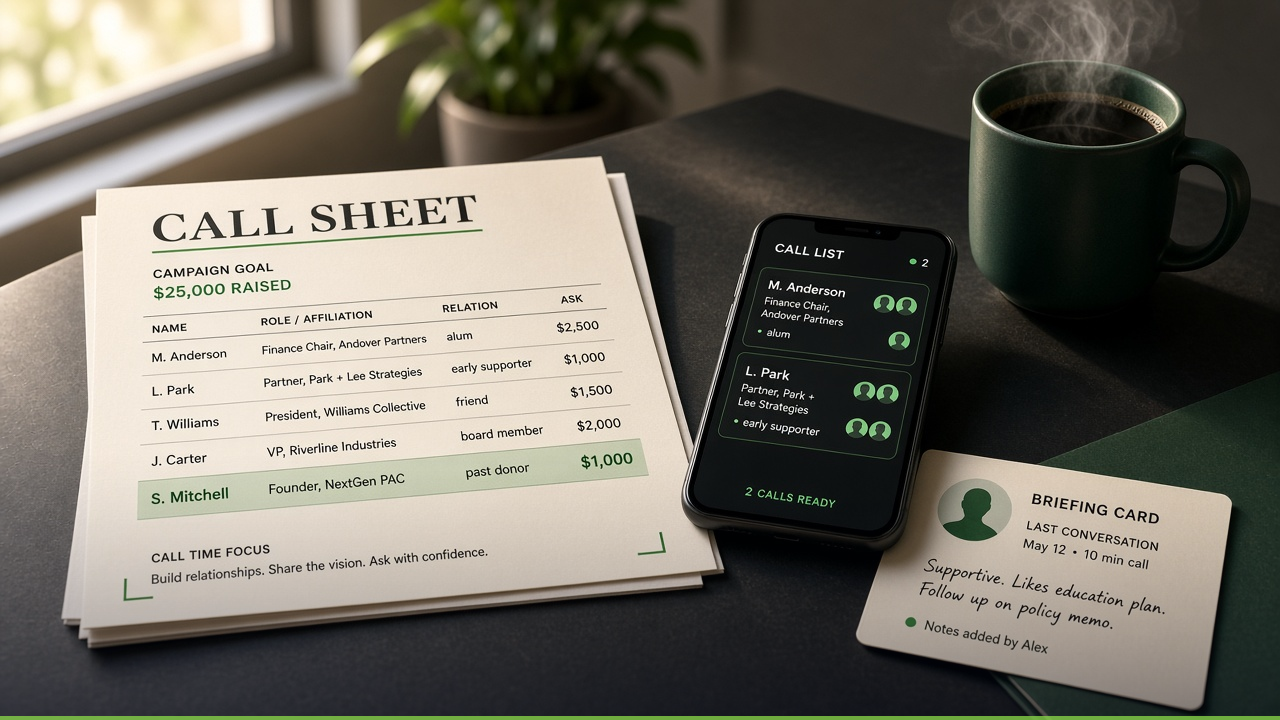
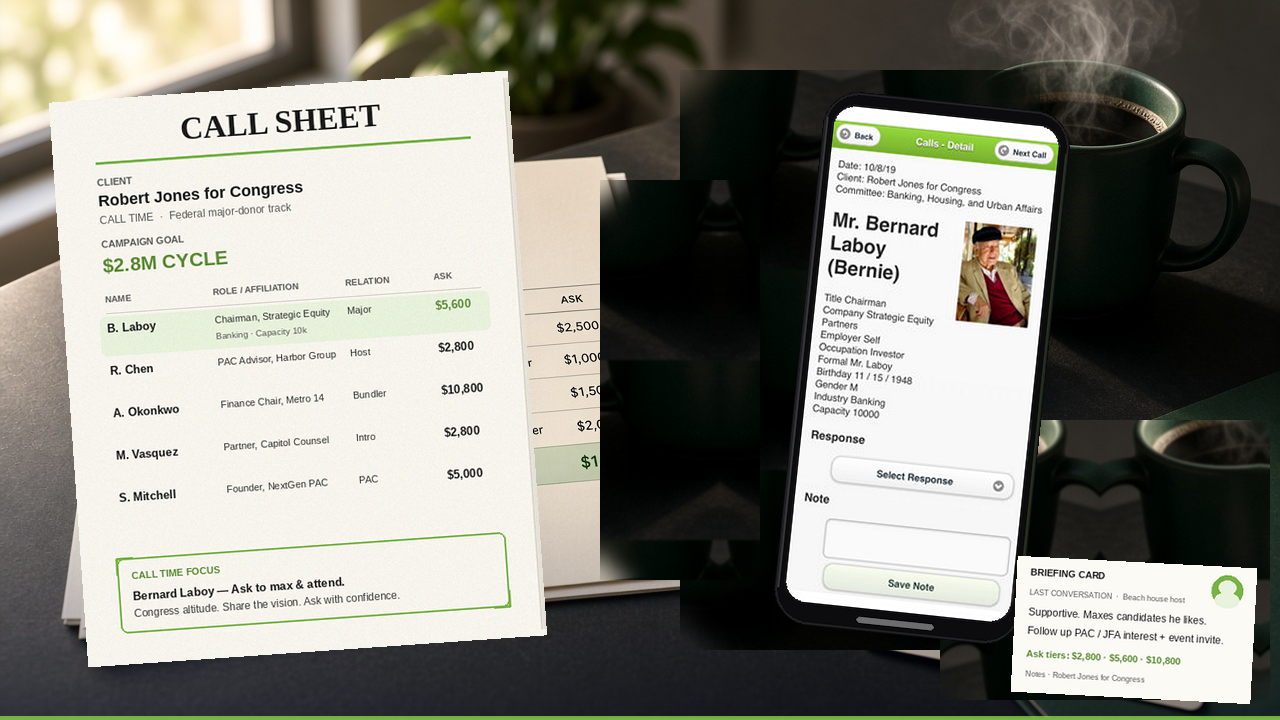
Capabilities Calls: ship Call Sheet + Online Calls composite

diff --git a/capabilities/index.html b/capabilities/index.html
@@ -6,7 +6,7 @@
 <title>Capabilities | iDONATEpro</title>
 <meta name="description" content="From a messy Scranton list to Dundies night — Contacts, Import, Email, Call Sheets, Events in one Donor book. Call Time that wins.">
 <link rel="icon" href="/favicon.ico">
-<link rel="stylesheet" href="/css/site.css?v=104">
+<link rel="stylesheet" href="/css/site.css?v=105">
 </head>
 <body>
 <header class="site-header">
@@ -160,7 +160,7 @@
   <div class="wrap capability-grid">
         <div class="cap-media">
       <figure class="cap-shot">
-        <img src="/img/capabilities/calls.png?v=2" alt="Calls & Call Time story graphic" width="1280" height="720" loading="lazy">
+        <img src="/img/capabilities/calls.png?v=6" alt="Calls & Call Time story graphic" width="1280" height="720" loading="lazy">
       </figure>
     </div>
 <div class="capability-copy">

diff --git a/icons/index.html b/icons/index.html
@@ -7,7 +7,7 @@
 <meta name="robots" content="noindex, nofollow">
 <meta name="description" content="Locked iDp icon set, five finishes.">
 <link rel="icon" href="/favicon.ico">
-<link rel="stylesheet" href="/css/site.css?v=104">
+<link rel="stylesheet" href="/css/site.css?v=105">
 <style>
 section.compare-board { padding: 3.25rem 0 5rem; background: var(--bg); }
 section.compare-board .wrap-board { width: min(72rem, calc(100% - 3rem)); margin-inline: auto; }

diff --git a/who-its-for/index.html b/who-its-for/index.html
@@ -6,7 +6,7 @@
 <title>Who It's For | iDONATEpro</title>
 <meta name="description" content="iDONATEpro is built for Political Fundraisers, Campaigns & Committees, and Regional Parties & 501(c) Organizations. See who you become with a Donor book that travels with you.">
 <link rel="icon" href="/favicon.ico">
-<link rel="stylesheet" href="/css/site.css?v=104">
+<link rel="stylesheet" href="/css/site.css?v=105">
 </head>
 <body>
 <header class="site-header">

diff --git a/index.html b/index.html
@@ -6,7 +6,7 @@
 <title>iDONATEpro | Political Fundraising CRM Software</title>
 <meta name="description" content="CRM software for Political Fundraisers, campaigns, committees, Regional Parties, and 501(c) Organizations. Book a free demo or start a 14-day trial.">
 <link rel="icon" href="/favicon.ico">
-<link rel="stylesheet" href="/css/site.css?v=104">
+<link rel="stylesheet" href="/css/site.css?v=105">
 </head>
 <body>
 <header class="site-header">

diff --git a/terms-and-conditions/index.html b/terms-and-conditions/index.html
@@ -6,7 +6,7 @@
 <title>Terms & Conditions | iDONATEpro</title>
 <meta name="description" content="CRM software for political fundraisers, campaigns, committees, regional parties, and 501(c) organizations. Book a free demo or start a 14-day trial.">
 <link rel="icon" href="/favicon.ico">
-<link rel="stylesheet" href="/css/site.css?v=104">
+<link rel="stylesheet" href="/css/site.css?v=105">
 </head>
 <body>
 <header class="site-header">

diff --git a/referral-program/index.html b/referral-program/index.html
@@ -6,7 +6,7 @@
 <title>Referral Program | iDONATEpro</title>
 <meta name="description" content="CRM software for Political Fundraisers, campaigns, committees, Regional Parties, and 501(c) Organizations. Book a free demo or start a 14-day trial.">
 <link rel="icon" href="/favicon.ico">
-<link rel="stylesheet" href="/css/site.css?v=104">
+<link rel="stylesheet" href="/css/site.css?v=105">
 </head>
 <body>
 <header class="site-header">

diff --git a/privacy-policy/index.html b/privacy-policy/index.html
@@ -6,7 +6,7 @@
 <title>Privacy Policy | iDONATEpro</title>
 <meta name="description" content="CRM software for political fundraisers, campaigns, committees, regional parties, and 501(c) organizations. Book a free demo or start a 14-day trial.">
 <link rel="icon" href="/favicon.ico">
-<link rel="stylesheet" href="/css/site.css?v=104">
+<link rel="stylesheet" href="/css/site.css?v=105">
 </head>
 <body>
 <header class="site-header">

diff --git a/testimonials/index.html b/testimonials/index.html
@@ -6,7 +6,7 @@
 <title>Testimonials | iDONATEpro</title>
 <meta name="description" content="CRM software for Political Fundraisers, campaigns, committees, Regional Parties, and 501(c) Organizations. Book a free demo or start a 14-day trial.">
 <link rel="icon" href="/favicon.ico">
-<link rel="stylesheet" href="/css/site.css?v=104">
+<link rel="stylesheet" href="/css/site.css?v=105">
 </head>
 <body>
 <header class="site-header">

diff --git a/security/index.html b/security/index.html
@@ -6,7 +6,7 @@
 <title>Security | iDONATEpro</title>
 <meta name="description" content="CRM software for political fundraisers, campaigns, committees, regional parties, and 501(c) organizations. Book a free demo or start a 14-day trial.">
 <link rel="icon" href="/favicon.ico">
-<link rel="stylesheet" href="/css/site.css?v=104">
+<link rel="stylesheet" href="/css/site.css?v=105">
 </head>
 <body>
 <header class="site-header">

diff --git a/pricing/index.html b/pricing/index.html
@@ -6,7 +6,7 @@
 <title>Pricing | iDONATEpro</title>
 <meta name="description" content="CRM software for Political Fundraisers, campaigns, committees, Regional Parties, and 501(c) Organizations. Book a free demo or start a 14-day trial.">
 <link rel="icon" href="/favicon.ico">
-<link rel="stylesheet" href="/css/site.css?v=104">
+<link rel="stylesheet" href="/css/site.css?v=105">
 </head>
 <body>
 <header class="site-header">

diff --git a/signup/index.html b/signup/index.html
@@ -6,7 +6,7 @@
 <title>Sign Up | iDONATEpro</title>
 <meta name="description" content="CRM software for Political Fundraisers, campaigns, committees, Regional Parties, and 501(c) Organizations. Book a free demo or start a 14-day trial.">
 <link rel="icon" href="/favicon.ico">
-<link rel="stylesheet" href="/css/site.css?v=104">
+<link rel="stylesheet" href="/css/site.css?v=105">
 </head>
 <body>
 <header class="site-header">

diff --git a/about/index.html b/about/index.html
@@ -6,7 +6,7 @@
 <title>About | iDONATEpro</title>
 <meta name="description" content="CRM software for Political Fundraisers, campaigns, committees, Regional Parties, and 501(c) Organizations. Book a free demo or start a 14-day trial.">
 <link rel="icon" href="/favicon.ico">
-<link rel="stylesheet" href="/css/site.css?v=104">
+<link rel="stylesheet" href="/css/site.css?v=105">
 </head>
 <body>
 <header class="site-header">
